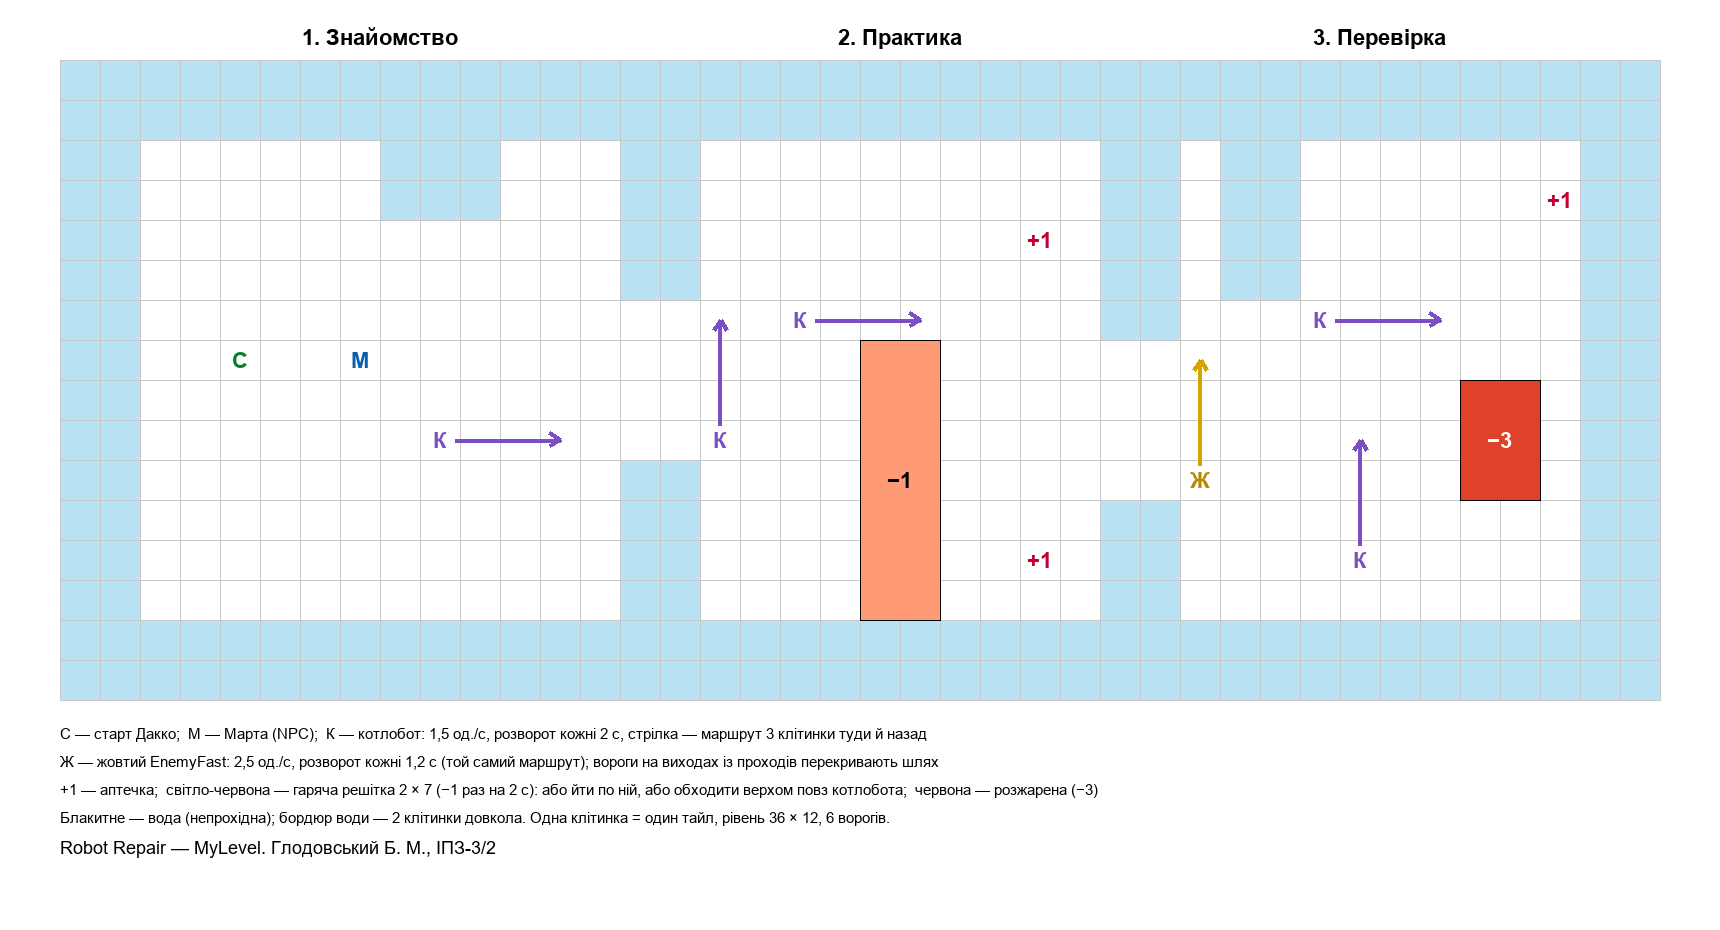
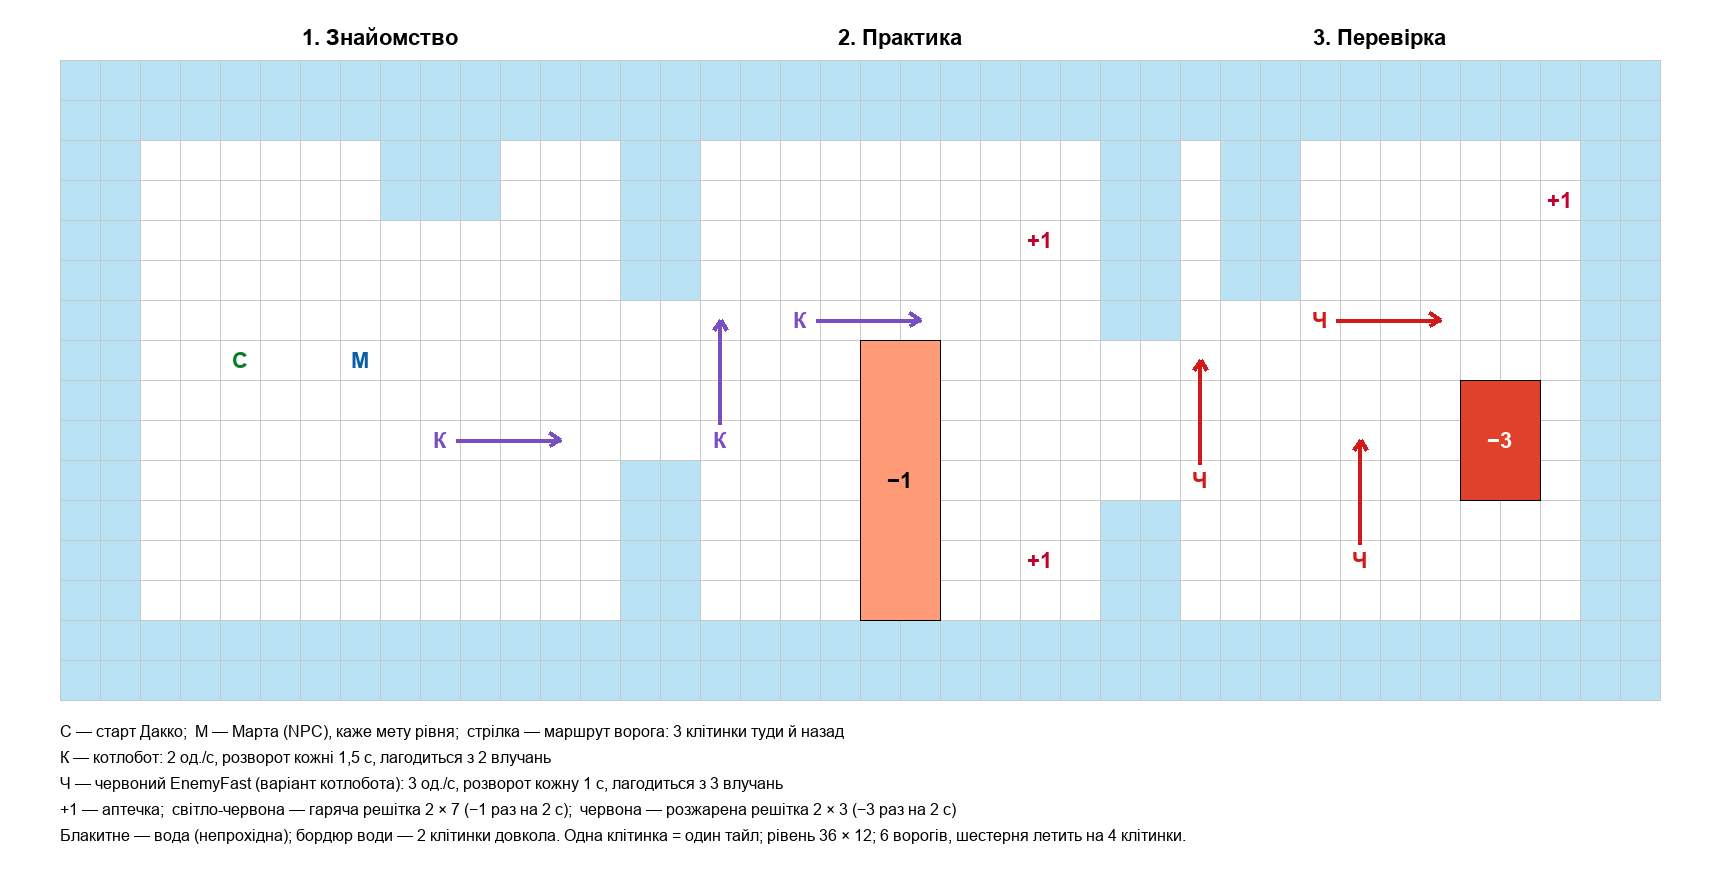
Лабораторна 7: оновлено план рівня й результати плейтесту

diff --git a/README.md b/README.md
@@ -69,7 +69,7 @@
 
 Варіант ворога і чим він відрізняється: EnemyFast — червоний (колір загрози), 3 од./с замість 2 і розворот кожну 1 с замість 1,5 с, тож маршрут ті самі 3 клітинки, але вдвічі швидше; лагодиться з 3 влучань замість 2.
 
-Що показав плейтест і що я змінив у числах: перша версія (вороги збоку від шляху, 1 од./с, одне влучання, шестерня летить через увесь рівень) пройдена за 30 с без жодного удару. Переставив ворогів на виходи з проходів, збільшив їх до 6, котлобот 1 → 1,5 од./с, пауза між пострілами 0,5 → 0,8 с — друга версія пройдена за 15 с з одним навмисним ударом, бо ворогів можна було лагодити здалеку з одного пострілу. Тоді обмежив дальність шестерні 100 → 4 клітинки, додав кілька влучань (котлобот 2, EnemyFast 3) і пришвидшив ворогів (котлобот 2 од./с, EnemyFast 3 од./с). Фінальні проходження: 10 с, 0 ударів, 5 здоров'я; 15 с, 0 ударів, 5 здоров'я; 40 с, 3 удари, 4 здоров'я. До цілі зрізу (60–90 с і 1–3 здоров'я наприкінці) рівень ще не дотягує: коли знаєш маршрути, його можна пройти без жодного удару — далі зроблю його довшим і поставлю більше ворогів на шляху.
+Що показав плейтест і що я змінив у числах: перша спроба — 10 с, 0 ударів, 5 здоров'я: вороги ходили збоку від шляху (1 од./с, одне влучання, шестерня летить через увесь рівень), і їх можна було просто оминути. Переставив ворогів на виходи з проходів, збільшив їх до 6, котлобот 1 → 1,5 од./с, пауза між пострілами 0,5 → 0,8 с. Друга спроба — 15 с, 0 ударів, 5 здоров'я: ворогів можна було лагодити здалеку з одного пострілу. Тоді обмежив дальність шестерні 100 → 4 клітинки, додав кілька влучань (котлобот 2, EnemyFast 3) і пришвидшив ворогів (котлобот 2 од./с, EnemyFast 3 од./с). Третя спроба — 40 с, 3 удари, 4 здоров'я. До цілі зрізу (60–90 с) рівень ще не дотягує — далі зроблю його довшим і поставлю більше ворогів на шляху.
 
 Що не вийшло або забрало найбільше часу: перші дві версії рівня виявилися надто легкими, тож рівень довелося двічі перебудовувати. Жовтий колір варіанта не було видно на золотистому котлоботі — колір у Sprite Renderer множиться на спрайт, тому замінив на червоний.
 
